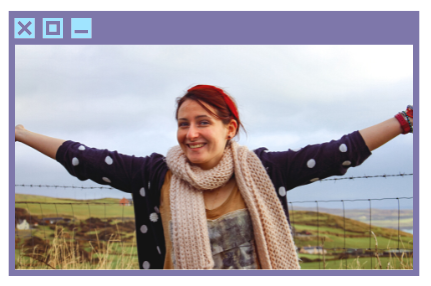
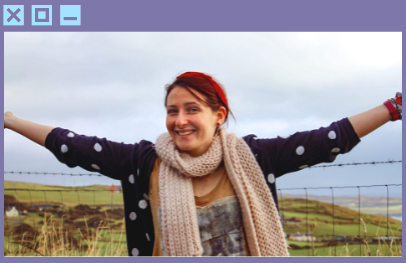
cropped profile pic and changed neon setting

diff --git a/src/styles/style.css b/src/styles/style.css
@@ -19,13 +19,7 @@ main {
     border: 0.2rem solid #fff;
     border-radius: 2rem;
     padding: 0.4em;
-    box-shadow: 0 0 .2rem #fff,
-                0 0 .2rem #fff,
-                0 0 2rem #95E4FF,
-                0 0 0.8rem #95E4FF,
-                0 0 2.8rem #95E4FF,
-                inset 0 0 1.3rem #95E4FF;
- 
+
 }
 
 .gridbox-profilepic {
@@ -34,7 +28,7 @@ main {
     grid-column-end: third-column;
     grid-row-start: first-row;
     grid-row-end: first-row;
-
+   
 }
 
 .gridbox-nav {

diff --git a/src/components/tools/profile-picture/profilepicture.css b/src/components/tools/profile-picture/profilepicture.css
@@ -10,5 +10,12 @@
 }
 
 img.gridbox-profilepic-img {
-    width: 90%;
+    width: 90%; 
+    box-shadow: 
+    0 0 .2rem #fff,0 0 .2rem #fff,
+    0 0 2rem #95E4FF,
+    0 0 0.8rem #95E4FF,
+    0 0 2.8rem #95E4FF,
+    inset 0 0 1.3rem #95E4FF;
+
 }
